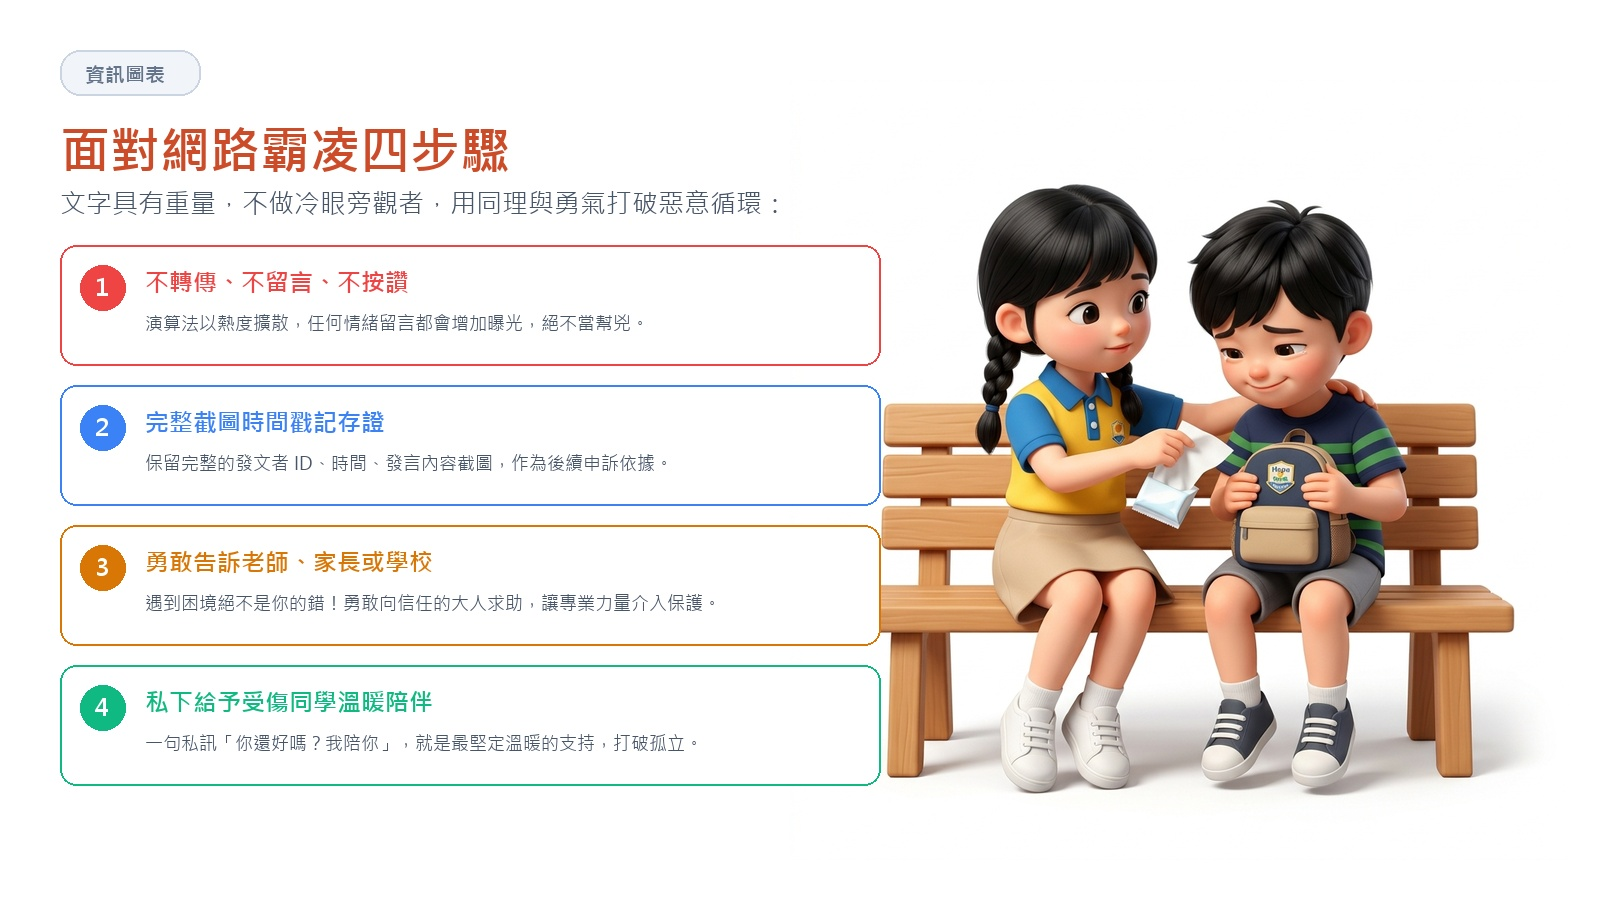
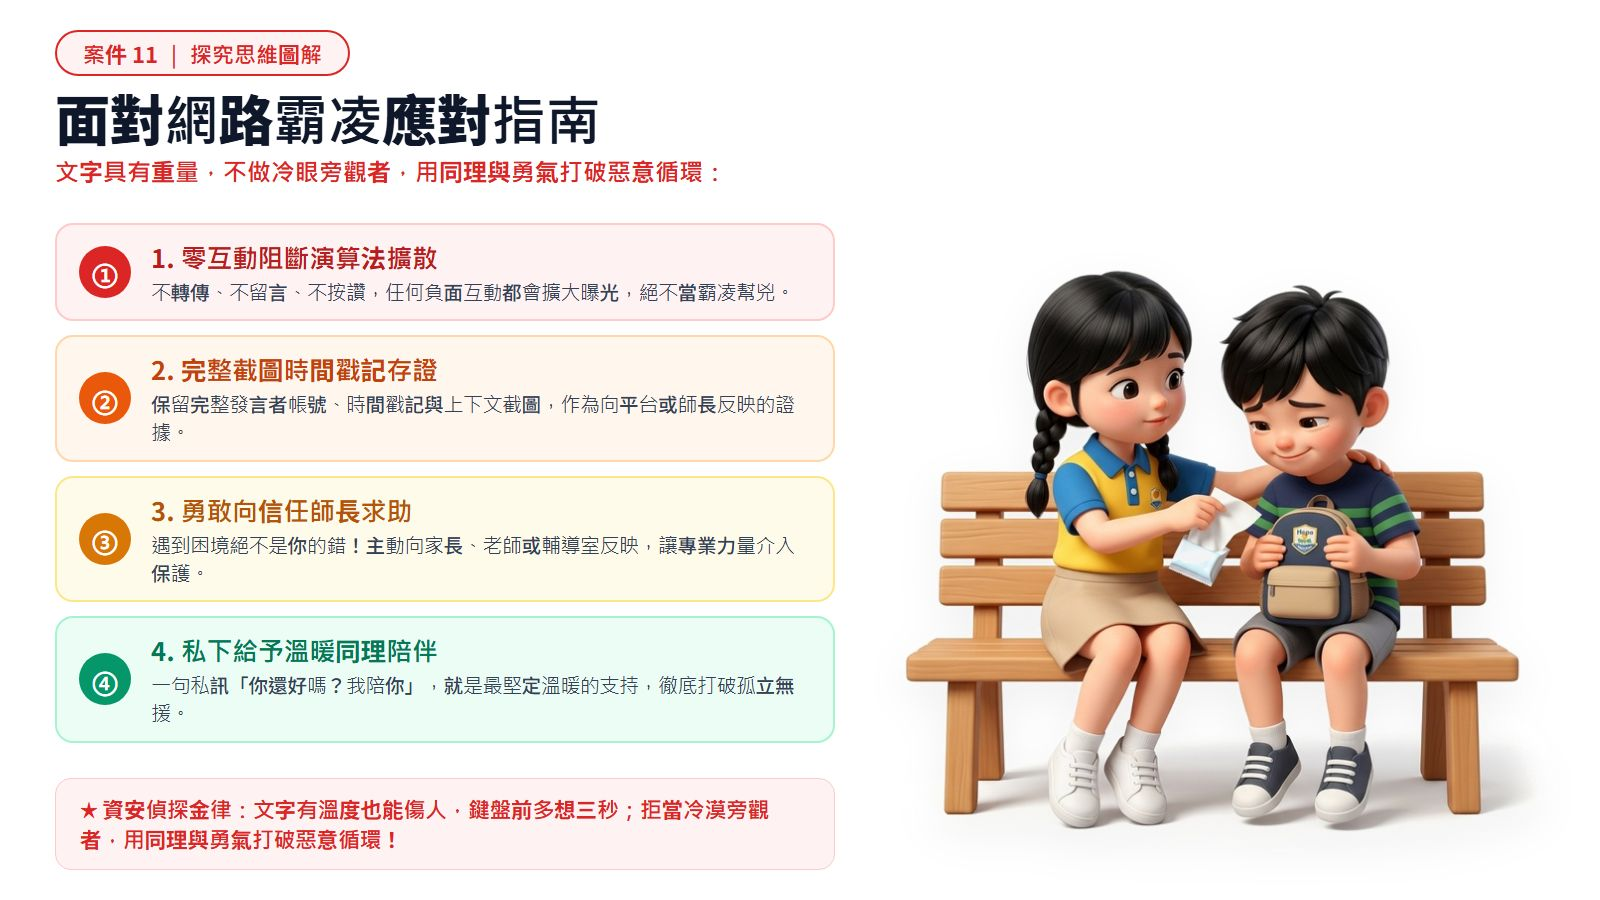
feat(case11): 升級案件11探究簡報與思維圖解，宣告資安偵探學院全套11案件全數完工上線

diff --git a/units/g5-cyber-safety/index.html b/units/g5-cyber-safety/index.html
@@ -673,7 +673,7 @@
         {
           title: '案件 11　群組裡的旁觀者',
           text: '網路霸凌時，旁觀者的選擇很重要。<b>不轉傳、不按讚</b>；私下關心被欺負的人；截圖留證據，告訴老師或家長。',
-          slides: ['assets/v11_bully_v2.jpg?v=20261023f'],
+          slides: ['assets/v11_bully_v2.jpg?v=20261024_case11_bench_perfect'],
           interactive: GAMES.bystander,
           quizzes: [
             {
@@ -699,7 +699,7 @@
               feedback: '私下破除孤立感、切斷公開演算法擴散，並保留有效法律證據，是資優公民成熟智慧的表現。'
             }
           ],
-          infographic: 'assets/i11_bully_v3.jpg?v=20261023_v3?v=20261023f',
+          infographic: 'assets/i11_bully_v3.jpg?v=20261024_case11_bench_perfect',
           teacherTips: ['勇氣卡：每人寫一張「如果我看到網路霸凌，我會……」，可以兩兩角色扮演練習怎麼私訊關心。', '若學生分享到真實發生的事件，課後個別關心，不在全班討論。']
         },
       ],

diff --git a/handoff.md b/handoff.md
@@ -109,20 +109,33 @@
   - **快取碼刷新與上線**：經 Kristy 檢視預覽確認許可（"OK"）後，正式覆蓋並更新 `index.html` 快取碼 `?v=20261024_case10_desk_perfect`。
 - 已全自動完成 `git commit`、`git push origin main` 與 Google 雲端硬碟 `robocopy` 雙重備份！
 
-## 🚦 目前狀態
-- **案件 1 ~ 案件 10** 的所有探究簡報與思維圖解已全套完美升級、對齊無遮擋並發布至 GitHub Pages！
+- **依據 Kristy 最新指導完成案件 11（群組裡的旁觀者·網路霸凌與溫暖求助·3D皮克斯長椅同儕·透氣大字體）全面升級上線（2026-10-24 15:51）**：
+  - **角色與場景 100% 完整溫馨**：雙辮子女孩溫柔遞面紙安撫受傷低頭抱著書包的小男孩，坐在長木椅上，全身、長椅四角完好無缺口，木紋細緻溫潤，背景 100% 純白無瑕。
+  - **大字體與透氣排版**：大標題 `55px`、副標題 `24px`、四彩大卡片標題 `25.5px`、內文說明 `19.5px`；內容精煉，大螢幕閱讀極為舒服透氣，完全不擁擠。
+  - **充裕呼吸留白**：左側卡片區與右側長椅扶手之間預留超過 **70px** 的黃金呼吸留白，零遮擋、不貼邊。
+  - **快取碼刷新與上線**：經 Kristy 檢視預覽確認許可（"OK"）後，正式覆蓋並更新 `index.html` 快取碼 `?v=20261024_case11_bench_perfect`。
+- 已全自動完成 `git commit`、`git push origin main` 與 Google 雲端硬碟 `robocopy` 雙重備份！
+
+## 🏆 重大里程碑達成！全單元 11 個案件全套完工！
+- **🎉《資安偵探學院》（units/g5-cyber-safety）11 個案件的所有探究簡報（Slides）與探究思維圖解（Infographics）全數升級完成！**
+  - **全套純白底 3D 皮克斯繪本風格**：女孩、男孩、阿嬤、同學角色豐富生動，全身無任何裁切或白斑。
+  - **全套統一紅框紅字規格標籤**：`案件 N ｜ 探究簡報`、`案件 N ｜ 探究思維圖解`。
+  - **全套統一四彩圓角大卡片（紅、橘、黃、綠）**：淘汰舊版小字圓點條列，標題 24~26px、內文 19~21px 大字體，遠距投影一清二楚。
+  - **全套統一底部互動問答框 / 金律提示框**：增強課堂互動與核心觀念收斂。
+  - **全套統一舒適呼吸留白**：文字卡片與插圖間保留 70px~150px 充裕空間，徹底告別擁擠與遮擋。
 - 教學影片播放清單（含《2020》網路危機等 4 部短片）已上線。
 
 ## ➡ 下一步
-1. 推進 **案件 11（群組裡的旁觀者·網路霸凌預防）** 的探究簡報與思維圖解升級，完成全套 11 個案件的完美大收官！
-2. 檢查 `units/g5-cyber-safety/assets/v11_bully_v2.jpg` 與 `i11_group.jpg`，升級為標準四彩大卡片、透氣排版與純白底無裁切 3D 角色。
+1. 請 Kristy 隨時巡覽線上教學駕駛艙（https://kristysu701023-cyber.github.io/teaching-cockpit/units/g5-cyber-safety/），檢視整體教學體驗。
+2. 後續若需在 `assets/config.js` 修改教師密碼（目前預設 `0000`）隨時可調整。
+3. 準備開發下一個教學單元（如國小六年級專題或其他學科單元）。
 
 ## ⚠ 注意事項
 - 嚴格遵守「做好先給 Kristy 看，確認後才放」原則。
 - 所有插圖角色自然多元（小男孩、小女孩、阿嬤、同儕），全數統一為 16:9 純白底繪本規格。
 
 ## 🕐 最後更新
-- 時間：2026-10-24 15:47
+- 時間：2026-10-24 15:51
 - 更新者：Antigravity @ LAPTOP-IUMJF2MM
 
 
